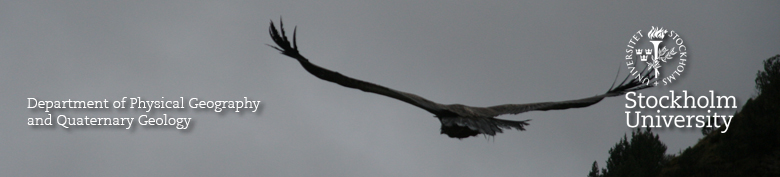
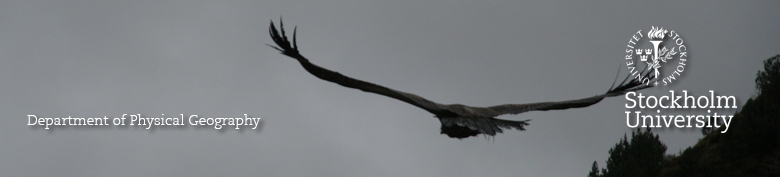
new natgeo link

Changed region(s): [[0.0308, 0.5367, 0.3385, 0.7627]]

diff --git a/index.html b/index.html
@@ -16,8 +16,7 @@
     <map name="Map">
           <area shape="circle" coords="657,56,31" href="http://www.su.se" onClick="ga('send', 'event', 'link', 'www.su.se');">
           <area shape="rect" coords="626,89,737,130" href="http://www.su.se" onClick="ga('send', 'event', 'link', 'www.su.se');">
-          <area shape="rect" coords="26,95,260,113" href="http://www.ink.su.se" onClick="ga('send', 'event', 'link', 'www.ink.su.se');">
-		  <area shape="rect" coords="26,114,191,129" href="http://www.ink.su.se" onClick="ga('send', 'event', 'link', 'www.ink.su.se');">
+		  <area shape="rect" coords="26,114,261,129" href="http://www.natgeo.su.se/" onClick="ga('send', 'event', 'link', 'www.natgeo.su.se');">
     </map>
 		<ul class="menu">
 			<li class="selected"><a href="index.html">Jakob</a></li>
@@ -32,7 +31,7 @@
       <tr>
 	<td valign="top"><br /><h2><br>Jakob Heyman</h2>
           <p>Post-doctoral researcher<br><p>
-			Department of Physical Geography and Quaternary Geology<br>
+			Department of Physical Geography<br>
 			Stockholm University<br>
 			106 91 Stockholm<br>
 			Sweden</p>

diff --git a/publications.html b/publications.html
@@ -16,8 +16,7 @@
     <map name="Map">
           <area shape="circle" coords="657,56,31" href="http://www.su.se" onClick="ga('send', 'event', 'link', 'www.su.se');">
           <area shape="rect" coords="626,89,737,130" href="http://www.su.se" onClick="ga('send', 'event', 'link', 'www.su.se');">
-          <area shape="rect" coords="26,95,260,113" href="http://www.ink.su.se" onClick="ga('send', 'event', 'link', 'www.ink.su.se');">
-		  <area shape="rect" coords="26,114,191,129" href="http://www.ink.su.se" onClick="ga('send', 'event', 'link', 'www.ink.su.se');">
+		  <area shape="rect" coords="26,114,261,129" href="http://www.natgeo.su.se/" onClick="ga('send', 'event', 'link', 'www.natgeo.su.se');">
     </map>
 		<ul class="menu">
 			<li><a href="index.html">Jakob</a></li>

diff --git a/research.html b/research.html
@@ -15,8 +15,7 @@
     <map name="Map">
           <area shape="circle" coords="657,56,31" href="http://www.su.se" onClick="ga('send', 'event', 'link', 'www.su.se');">
           <area shape="rect" coords="626,89,737,130" href="http://www.su.se" onClick="ga('send', 'event', 'link', 'www.su.se');">
-          <area shape="rect" coords="26,95,260,113" href="http://www.ink.su.se" onClick="ga('send', 'event', 'link', 'www.ink.su.se');">
-		  <area shape="rect" coords="26,114,191,129" href="http://www.ink.su.se" onClick="ga('send', 'event', 'link', 'www.ink.su.se');">
+		  <area shape="rect" coords="26,114,261,129" href="http://www.natgeo.su.se/" onClick="ga('send', 'event', 'link', 'www.natgeo.su.se');">
     </map>
 		<ul class="menu">
 			<li><a href="index.html">Jakob</a></li>

diff --git a/gallery-2006.html b/gallery-2006.html
@@ -16,8 +16,7 @@
     <map name="Map">
           <area shape="circle" coords="657,56,31" href="http://www.su.se" onClick="ga('send', 'event', 'link', 'www.su.se');">
           <area shape="rect" coords="626,89,737,130" href="http://www.su.se" onClick="ga('send', 'event', 'link', 'www.su.se');">
-          <area shape="rect" coords="26,95,260,113" href="http://www.ink.su.se" onClick="ga('send', 'event', 'link', 'www.ink.su.se');">
-		  <area shape="rect" coords="26,114,191,129" href="http://www.ink.su.se" onClick="ga('send', 'event', 'link', 'www.ink.su.se');">
+		  <area shape="rect" coords="26,114,261,129" href="http://www.natgeo.su.se/" onClick="ga('send', 'event', 'link', 'www.natgeo.su.se');">
     </map>
 	<ul class="menu">
 		<li><a href="index.html">Jakob</a></li>

diff --git a/gallery-2007.html b/gallery-2007.html
@@ -14,8 +14,7 @@
     <map name="Map">
           <area shape="circle" coords="657,56,31" href="http://www.su.se" onClick="ga('send', 'event', 'link', 'www.su.se');">
           <area shape="rect" coords="626,89,737,130" href="http://www.su.se" onClick="ga('send', 'event', 'link', 'www.su.se');">
-          <area shape="rect" coords="26,95,260,113" href="http://www.ink.su.se" onClick="ga('send', 'event', 'link', 'www.ink.su.se');">
-		  <area shape="rect" coords="26,114,191,129" href="http://www.ink.su.se" onClick="ga('send', 'event', 'link', 'www.ink.su.se');">
+		  <area shape="rect" coords="26,114,261,129" href="http://www.natgeo.su.se/" onClick="ga('send', 'event', 'link', 'www.natgeo.su.se');">
     </map>
 	<ul class="menu">
 		<li><a href="index.html">Jakob</a></li>

diff --git a/gallery-2008.html b/gallery-2008.html
@@ -16,8 +16,7 @@
     <map name="Map">
           <area shape="circle" coords="657,56,31" href="http://www.su.se" onClick="ga('send', 'event', 'link', 'www.su.se');">
           <area shape="rect" coords="626,89,737,130" href="http://www.su.se" onClick="ga('send', 'event', 'link', 'www.su.se');">
-          <area shape="rect" coords="26,95,260,113" href="http://www.ink.su.se" onClick="ga('send', 'event', 'link', 'www.ink.su.se');">
-		  <area shape="rect" coords="26,114,191,129" href="http://www.ink.su.se" onClick="ga('send', 'event', 'link', 'www.ink.su.se');">
+		  <area shape="rect" coords="26,114,261,129" href="http://www.natgeo.su.se/" onClick="ga('send', 'event', 'link', 'www.natgeo.su.se');">
     </map>
 	<ul class="menu">
 		<li><a href="index.html">Jakob</a></li>

diff --git a/gallery-2009.html b/gallery-2009.html
@@ -16,8 +16,7 @@
     <map name="Map">
           <area shape="circle" coords="657,56,31" href="http://www.su.se" onClick="ga('send', 'event', 'link', 'www.su.se');">
           <area shape="rect" coords="626,89,737,130" href="http://www.su.se" onClick="ga('send', 'event', 'link', 'www.su.se');">
-          <area shape="rect" coords="26,95,260,113" href="http://www.ink.su.se" onClick="ga('send', 'event', 'link', 'www.ink.su.se');">
-		  <area shape="rect" coords="26,114,191,129" href="http://www.ink.su.se" onClick="ga('send', 'event', 'link', 'www.ink.su.se');">
+		  <area shape="rect" coords="26,114,261,129" href="http://www.natgeo.su.se/" onClick="ga('send', 'event', 'link', 'www.natgeo.su.se');">
     </map>
 	<ul class="menu">
 		<li><a href="index.html">Jakob</a></li>

diff --git a/gallery.html b/gallery.html
@@ -16,8 +16,7 @@
     <map name="Map">
           <area shape="circle" coords="657,56,31" href="http://www.su.se" onClick="ga('send', 'event', 'link', 'www.su.se');">
           <area shape="rect" coords="626,89,737,130" href="http://www.su.se" onClick="ga('send', 'event', 'link', 'www.su.se');">
-          <area shape="rect" coords="26,95,260,113" href="http://www.ink.su.se" onClick="ga('send', 'event', 'link', 'www.ink.su.se');">
-		  <area shape="rect" coords="26,114,191,129" href="http://www.ink.su.se" onClick="ga('send', 'event', 'link', 'www.ink.su.se');">
+		  <area shape="rect" coords="26,114,261,129" href="http://www.natgeo.su.se/" onClick="ga('send', 'event', 'link', 'www.natgeo.su.se');">
     </map>
 	<ul class="menu">
 		<li><a href="index.html">Jakob</a></li>
